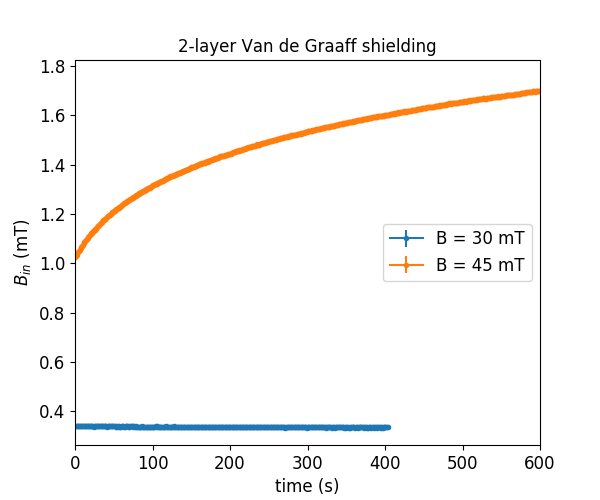
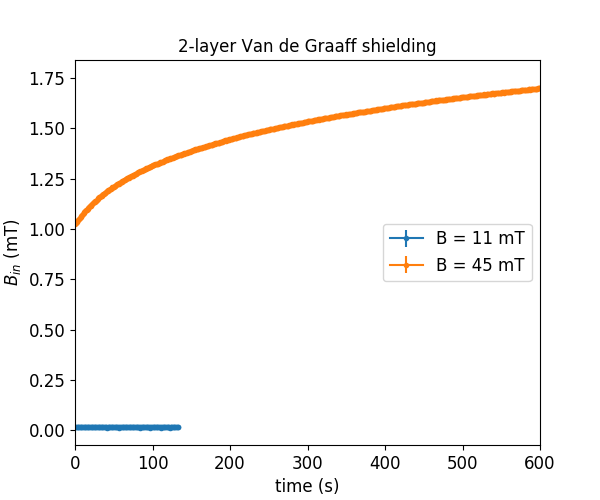
Update plots

diff --git a/pycloak/shielding_pub17/plot_shielding_vdg2layer_timedep.py b/pycloak/shielding_pub17/plot_shielding_vdg2layer_timedep.py
@@ -37,8 +37,8 @@ lab2 = str("B = ") + str(int(round(Bnom2))) + str(" mT")
 lab3 = str("B = ") + str(int(round(Bnom3))) + str(" mT")
 
 # plot data
-#axs.errorbar( df1['time'], abs(df1['B1']), yerr=0, marker='.', label=lab1 )
-axs.errorbar( df2['time'], abs(df2['B1']), yerr=0, marker='.', label=lab2 )
+axs.errorbar( df1['time'], abs(df1['B1']), yerr=0, marker='.', label=lab1 )
+#axs.errorbar( df2['time'], abs(df2['B1']), yerr=0, marker='.', label=lab2 )
 axs.errorbar( df3['time'], abs(df3['B1']), yerr=0, marker='.', label=lab3 )
 
 # add legend
